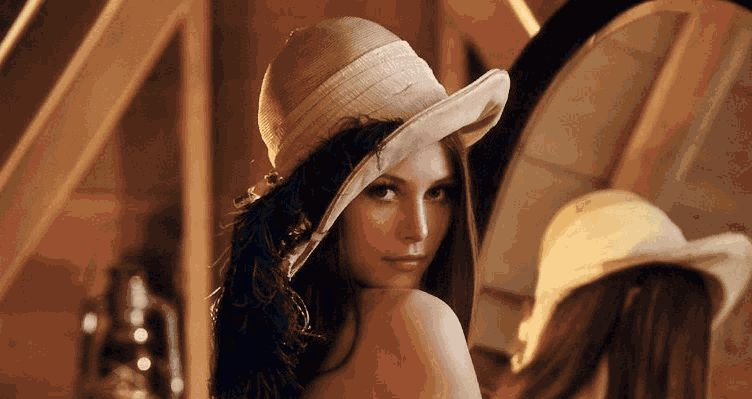
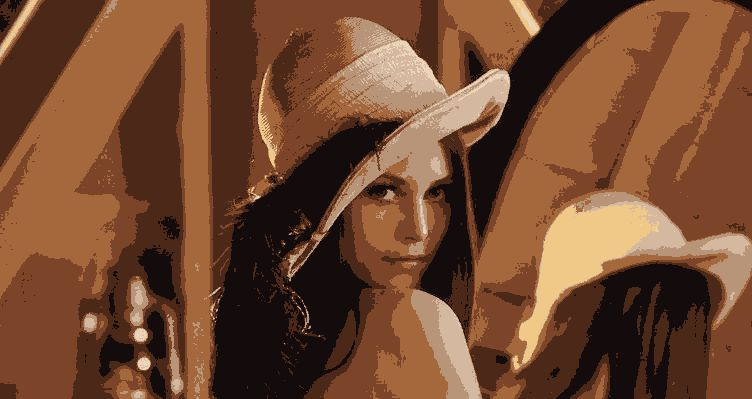
fix(cluster_nr): changed number of clusters

diff --git a/src/dipper.cpp b/src/dipper.cpp
@@ -10,7 +10,7 @@
 int main(int argc, char **argv) {
   std::string imgFileName;
   std::string outFileName;
-  int nColorVectors = 64;
+  int nColorVectors = 8;
 
   if (argc < 3) {
     fmt::print("Please specify input and output filename(or path)\n");
